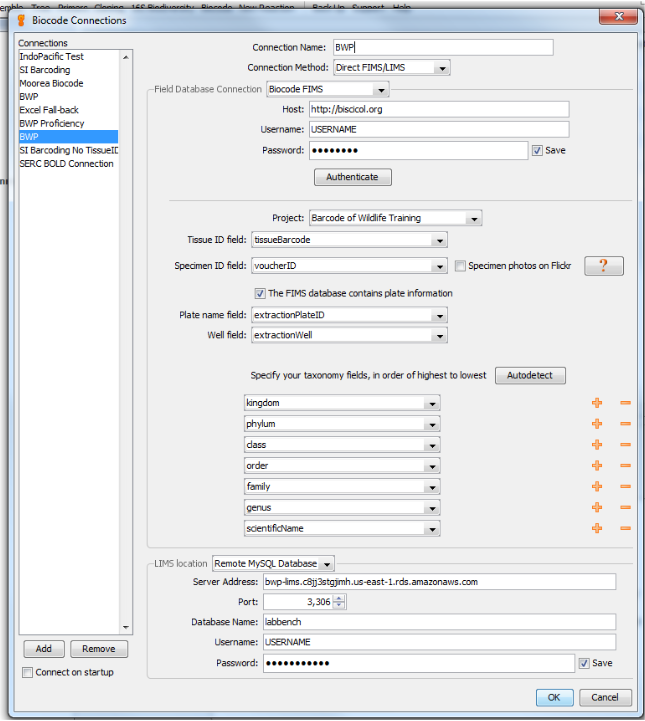
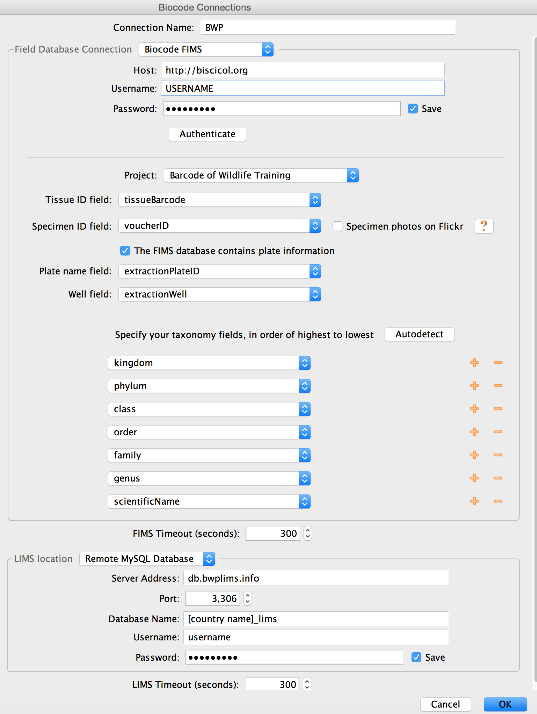
included new biocode and genbank upload plugins
Also took this opportunity to migrate old LIMS database to a new server.

Changed region(s): [[0.0, 0.0, 1.0, 1.0], [0.8939, 0.3081, 0.9236, 0.3389]]

diff --git a/Docs/biocode_plugin.rst b/Docs/biocode_plugin.rst
@@ -62,13 +62,13 @@ LIMS Database Connection
 In the LIMS Location section, start out by selecting "Remote MySQL Database" from the dropdown.
 
 Server Address
-	For "Server Address", copy and paste in "bwp-lims.c8jj3stgjimh.us-east-1.rds.amazonaws.com".
+	For "Server Address", copy and paste in "db.bwplims.info".
 Port
 	For "Port", make sure it is set to "3,306".
 Database Name
-	For "Database Name", enter "labbench".
+	For "Database Name", enter either "kenya_lims", "mexico_lims", or "south_africa_lims" depending on which partner country you are affiliated with.
 Username and Password
-	Finally, for the "Username" and "Password" boxes, enter the LIMS database Username and Password that Mike Trizna assigned to you during training.
+	Finally, for the "Username" and "Password" boxes, enter the LIMS database Username and Password that Mike Trizna assigned to you via email.
 
 Make sure that the checkbox next to "Save" is selected.
 

diff --git a/Docs/index.rst b/Docs/index.rst
@@ -3,11 +3,11 @@
 Welcome to the BWP Informatics Documentation!
 =============================================
 
-.. image:: https://img.shields.io/badge/Biocode%20Plugin%20Version-2.8.12-green.svg
-    :target: http://assets.geneious.com/plugins/biocode/Biocode_2_8_12.gplugin
+.. image:: https://img.shields.io/badge/Biocode%20Plugin%20Version-3.0.0-green.svg
+    :target: http://assets.geneious.com/plugins/biocode/Biocode_3_0_0.gplugin
 
-.. image:: https://img.shields.io/badge/GenBank%20Upload%20Plugin%20Version-1.6.2-green.svg
-    :target: https://drive.google.com/open?id=0B1W_DinFDL0oRVpWd3VRaHBod2M
+.. image:: https://img.shields.io/badge/GenBank%20Upload%20Plugin%20Version-1.6.4-green.svg
+    :target: http://www.geneious.com/assets/plugins/GenbankSubmission_1_6_4.gplugin
 
 This documentation site describes the best practices for the informatics pipeline of the `Barcode of Wildlife Project`_.
 

diff --git a/Docs/gb_upload.rst b/Docs/gb_upload.rst
@@ -6,8 +6,8 @@ Installing the Geneious Plug-in
 
 .. note::
 
-   GenBank Submission plug-in version 1.6.2, which fixes some critical issues with trace packaging, is in beta mode and therefore only available through direct download. You can download it from `here
-   <https://drive.google.com/open?id=0B1W_DinFDL0oRVpWd3VRaHBod2M>`_.
+   The most up-to-date GenBank Submission plug-in version is 1.6.4, which can be found `here
+   <http://www.geneious.com/assets/plugins/GenbankSubmission_1_6_4.gplugin>`_.
 
 We will be using Geneious's GenBank Submission plug-in to submit completed sequences to GenBank. The Geneious GenBank Submission Plug-in does all of the hard work of bundling together the various parts of a GenBank submission -- sequence data, specimen metadata, trace files, etc.
 
